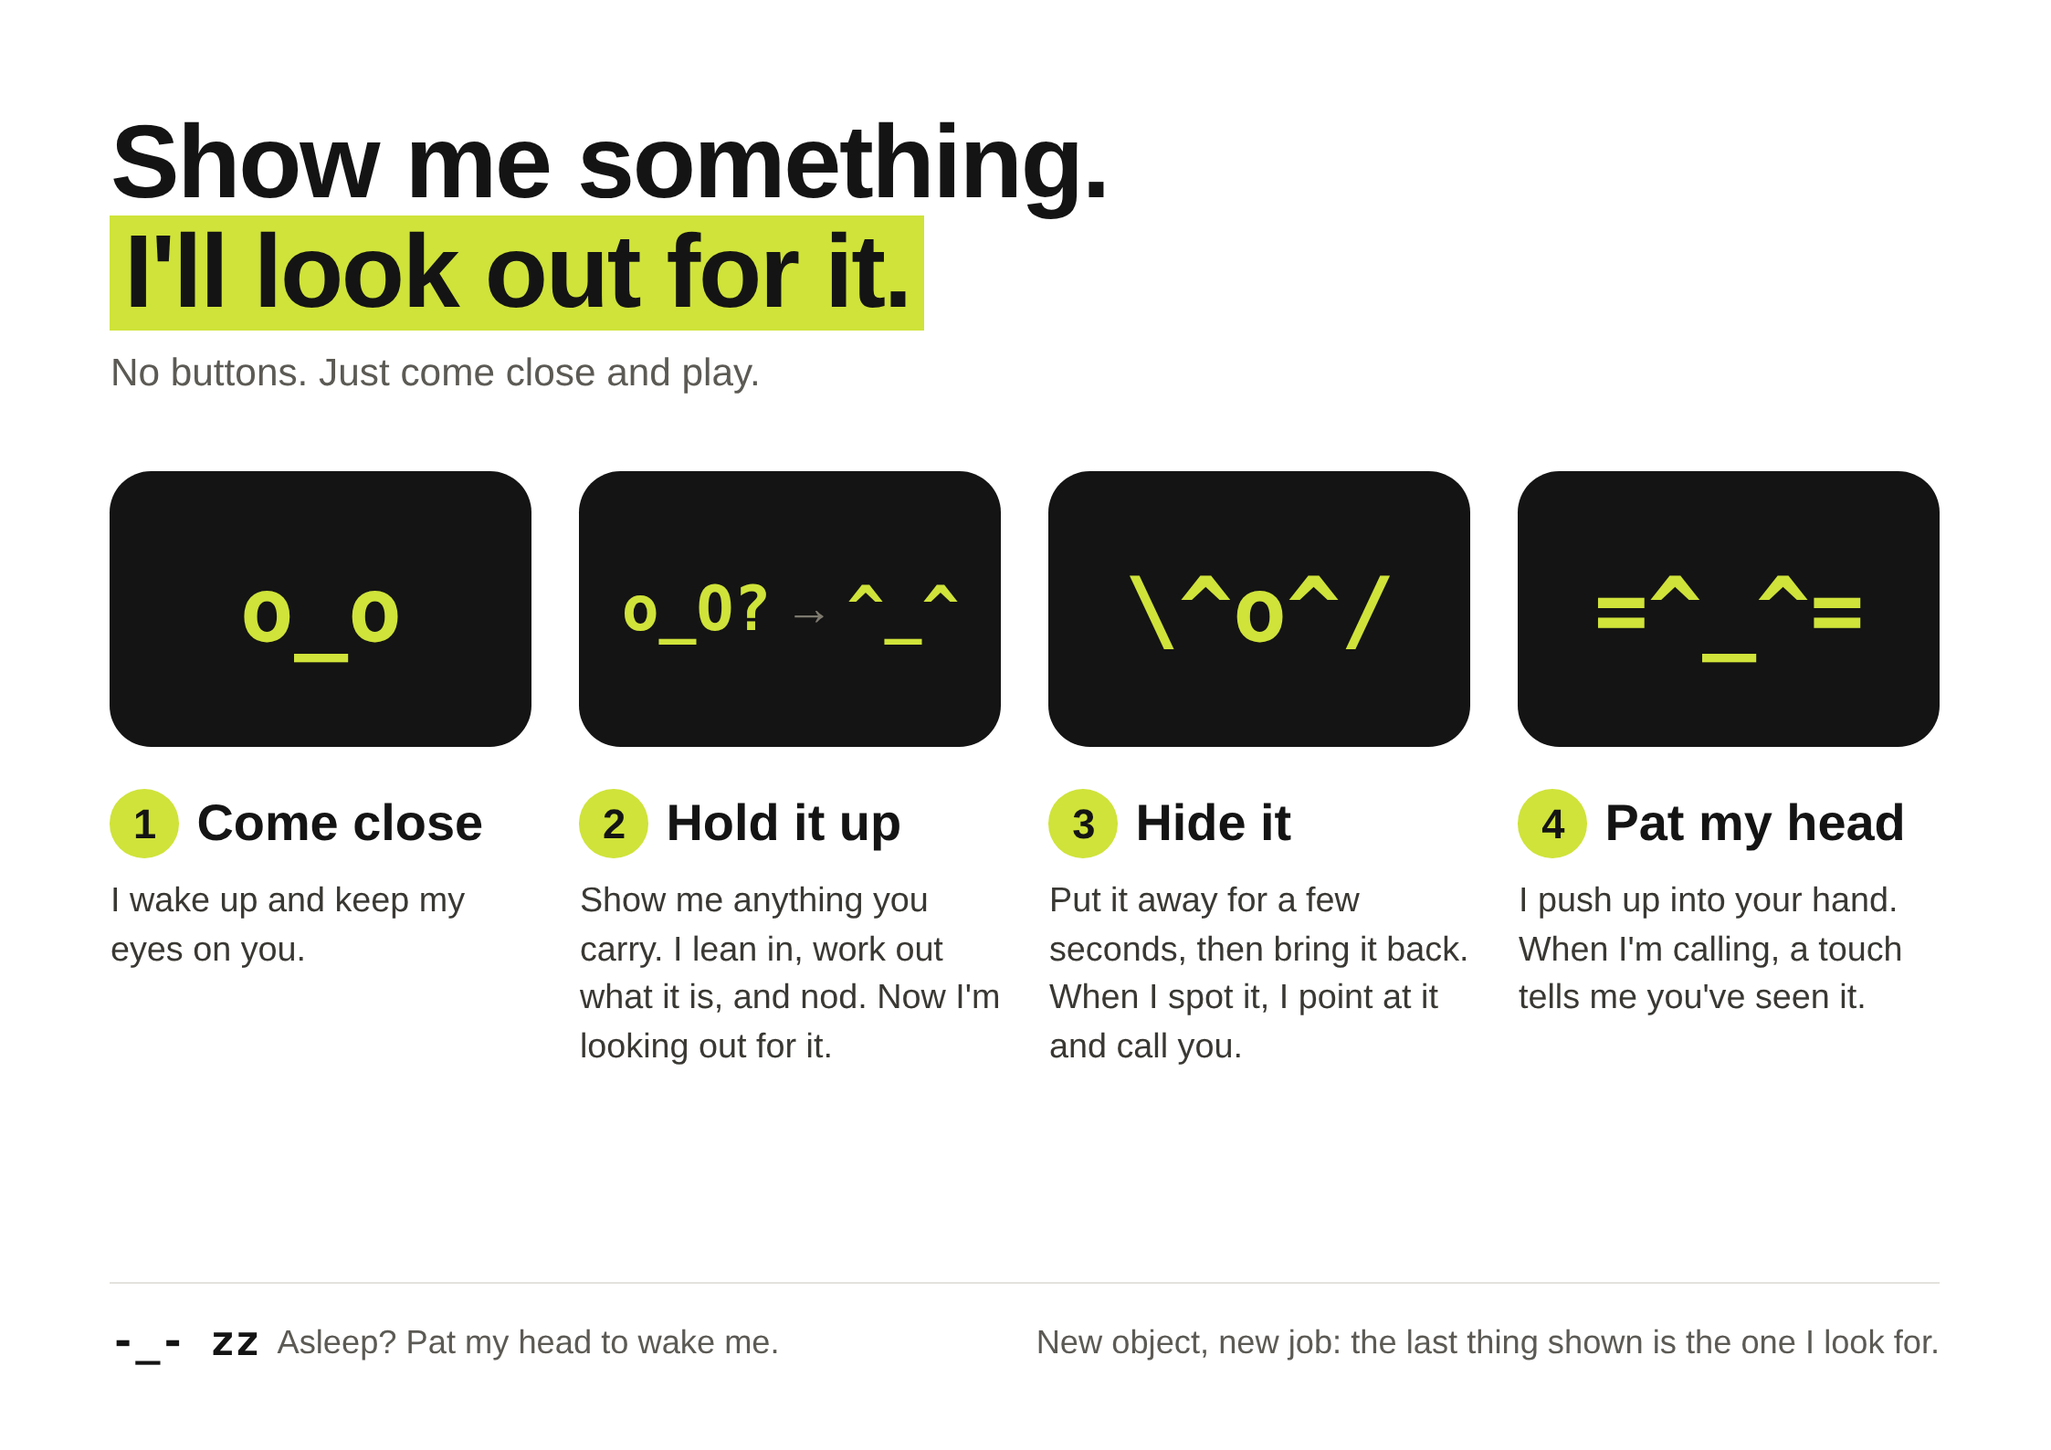
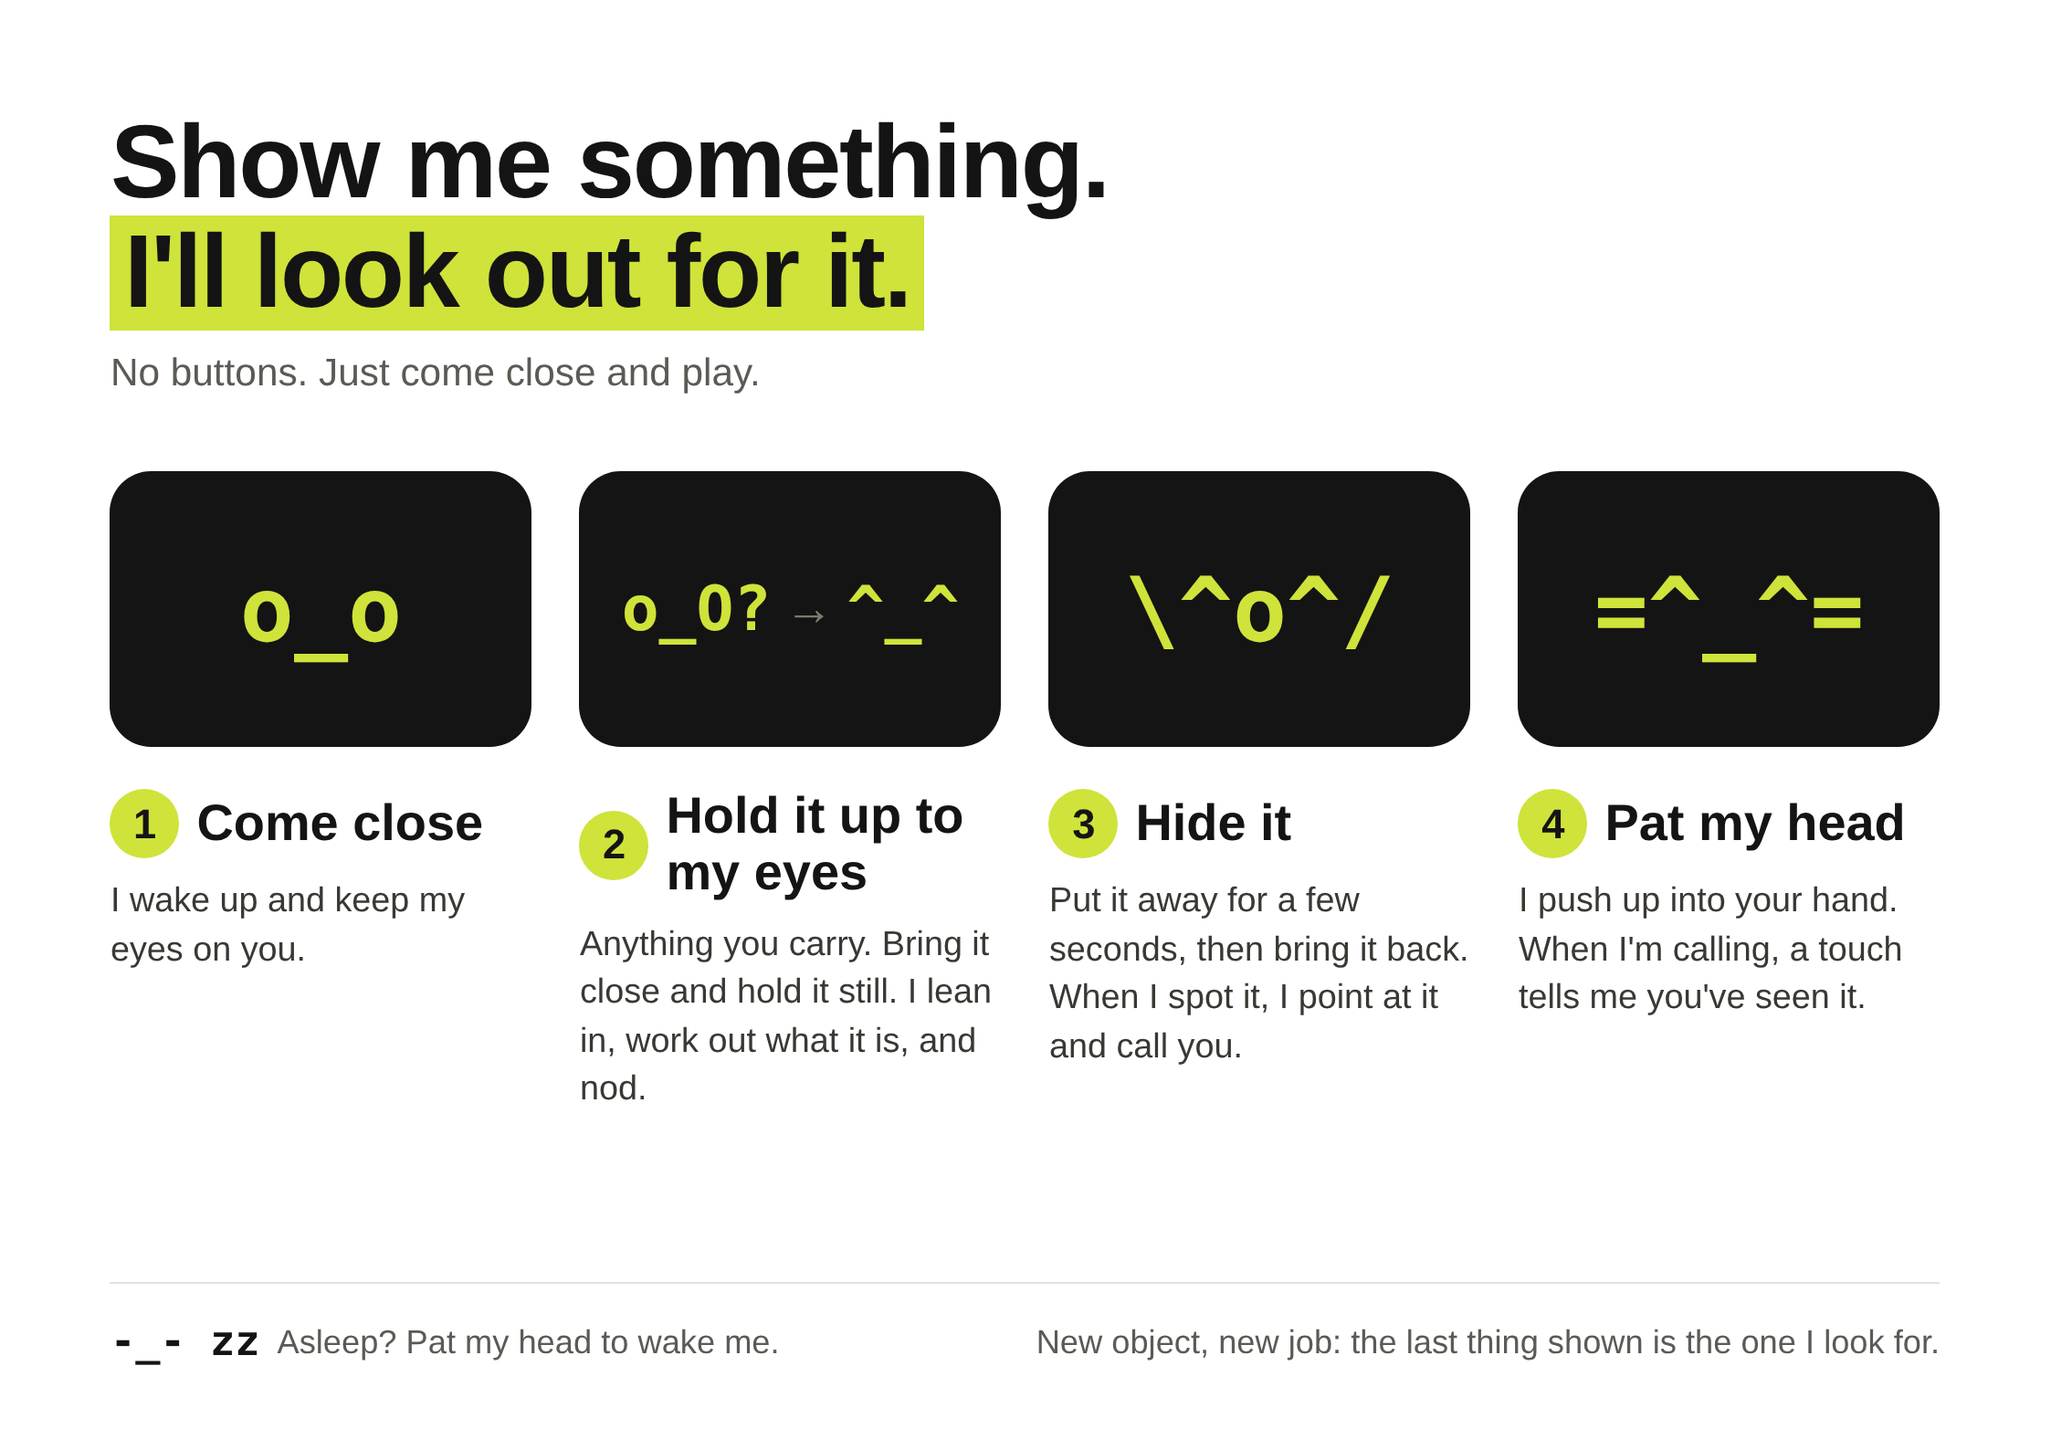
Showing = bringing it up to its eyes (big, central, held 0.8 s), so saying hi with a phone in hand is not teaching; view shows each thing's % of frame; sign step 2 updated

Changed region(s): [[0.2805, 0.5246, 0.4987, 0.7714]]

diff --git a/docs/booth_sign/booth_sign.html b/docs/booth_sign/booth_sign.html
@@ -44,8 +44,8 @@ h1 span { background: #cfe33a; padding: 0 2mm; }
 
   <div class="step">
     <div class="screen"><span class="face small">o_O?</span><span class="arrow">&rarr;</span><span class="face small">^_^</span></div>
-    <div class="head"><span class="num">2</span>Hold it up</div>
-    <div class="body">Show me anything you carry. I lean in, work out what it is, and nod. Now I'm looking out for it.</div>
+    <div class="head"><span class="num">2</span>Hold it up to my eyes</div>
+    <div class="body">Anything you carry. Bring it close and hold it still. I lean in, work out what it is, and nod.</div>
   </div>
 
   <div class="step">

diff --git a/tests/test_sidekick_brain.py b/tests/test_sidekick_brain.py
@@ -61,22 +61,29 @@ class FakePlayer:
         return {"pan": 0.0, "tilt": -8.0, "nod": 0.0}
 
 
-def tgt(pan=0.0, gaze=10.0):
-    return Target(x=0, y=0, pan=pan, nod=gaze + 12.0, gaze=gaze)
+def tgt(pan=0.0, gaze=10.0, x=640.0, y=360.0):
+    return Target(x=x, y=y, pan=pan, nod=gaze + 12.0, gaze=gaze)
 
 
 def face(pan=0.0, near=True):
     return Person(pid=1, head=tgt(pan, 15.0), sw_frac=0.35 if near else 0.1, near=near)
 
 
-def prop(label="banana", pan=0.0, gaze=5.0, held=True, hand_near=None):
-    return Prop(label=label, box=(0, 0, 10, 10), area=0.02, at=tgt(pan, gaze),
+def prop(label="banana", pan=0.0, gaze=5.0, held=True, hand_near=None,
+         area=0.08, x=640.0):
+    return Prop(label=label, box=(0, 0, 10, 10), area=area, at=tgt(pan, gaze, x=x),
                 held=held, hand_near=held if hand_near is None else hand_near)
 
 
 def pc(clock, people=(), props=()):
     return Percept(t=clock.t, pose={"pan": 0.0, "tilt": -12.0, "nod": 22.0},
                    people=list(people), props=list(props))
+
+
+def show(clock, brain, label, **kw):
+    """Bring it up to its eyes and hold it there long enough."""
+    for _ in range(int(B.SHOW_S / 0.25) + 2):
+        step(clock, brain, 0.25, people=[face()], props=[prop(label, **kw)])
 
 
 def setup():
@@ -201,8 +208,7 @@ def test_a_passer_straight_ahead_gets_a_glance_without_a_turn():
 def teach(label="water bottle", name="a blue water bottle"):
     clock, player, brain, events = setup()
     awake(clock, player, brain)
-    step(clock, brain, 0.25, people=[face()], props=[prop(label)])
-    step(clock, brain, 0.25, people=[face()], props=[prop(label)])
+    show(clock, brain, label)
     assert brain.phase == "TEACH" and player.state == "SK_CURIOUS"
     assert events[-1][0] == "identify" and events[-1][1]["guess"] == label
     player.finish()
@@ -279,8 +285,7 @@ def test_a_new_visitor_shows_a_new_thing_and_it_replaces_the_old():
     clock, player, brain, events = teach()
     for _ in range(int(B.TEACH_AGAIN_S / 0.25) + 1):
         step(clock, brain, 0.25, people=[face()])
-    step(clock, brain, 0.25, people=[face()], props=[prop("keys")])
-    step(clock, brain, 0.25, people=[face()], props=[prop("keys")])
+    show(clock, brain, "keys")
     assert brain.phase == "TEACH"
     player.finish()
     brain.on_identified("a set of keys", "keys")
@@ -290,8 +295,7 @@ def test_a_new_visitor_shows_a_new_thing_and_it_replaces_the_old():
 def test_the_model_could_not_tell_and_it_says_so():
     clock, player, brain, events = setup()
     awake(clock, player, brain)
-    step(clock, brain, 0.25, people=[face()], props=[prop("toy")])
-    step(clock, brain, 0.25, people=[face()], props=[prop("toy")])
+    show(clock, brain, "toy")
     player.finish()
     brain.on_identified(None, None)
     assert brain.phase == "LOOK" and brain.target is None
@@ -301,8 +305,7 @@ def test_the_model_could_not_tell_and_it_says_so():
 def test_an_answer_during_the_curious_beat_waits_for_it_to_finish():
     clock, player, brain, events = setup()
     awake(clock, player, brain)
-    step(clock, brain, 0.25, people=[face()], props=[prop("cup")])
-    step(clock, brain, 0.25, people=[face()], props=[prop("cup")])
+    show(clock, brain, "cup")
     brain.on_identified("a red cup", "cup")           # still SK_CURIOUS
     assert player.state == "SK_CURIOUS" and brain.phase == "TEACH"
     player.finish()                                    # -> SK_FOLLOW
@@ -366,8 +369,7 @@ def test_the_detectors_first_word_still_finds_it():
     model: the detector keeps saying 'headphones', and that must still count."""
     clock, player, brain, events = setup()
     awake(clock, player, brain)
-    step(clock, brain, 0.25, people=[face()], props=[prop("headphones")])
-    step(clock, brain, 0.25, people=[face()], props=[prop("headphones")])
+    show(clock, brain, "headphones")
     player.finish()
     brain.on_identified("a black earbud case", "earbud case")
     player.finish()
@@ -471,3 +473,29 @@ def test_leaving_look_stops_the_bounces():
     assert player.lively
     brain._sleep()
     assert not player.lively
+
+
+def test_saying_hi_with_a_phone_in_hand_is_not_showing():
+    """Small in the frame (held at the chest, a step away): it just follows."""
+    clock, player, brain, events = setup()
+    awake(clock, player, brain)
+    for _ in range(12):
+        step(clock, brain, 0.25, people=[face()], props=[prop("cell phone", area=0.02)])
+    assert brain.phase == "LOOK" and "identify" not in [k for k, _ in events]
+
+
+def test_brought_up_but_at_the_edge_of_its_view_is_not_showing():
+    clock, player, brain, events = setup()
+    awake(clock, player, brain)
+    for _ in range(12):
+        step(clock, brain, 0.25, people=[face()], props=[prop("cup", x=1200.0)])
+    assert brain.phase == "LOOK"
+
+
+def test_a_quick_flash_past_its_eyes_is_not_showing():
+    clock, player, brain, events = setup()
+    awake(clock, player, brain)
+    for _ in range(6):
+        step(clock, brain, 0.25, people=[face()], props=[prop("cup")])
+        step(clock, brain, 0.25, people=[face()])
+    assert brain.phase == "LOOK"

diff --git a/session/sidekick_brain.py b/session/sidekick_brain.py
@@ -49,7 +49,15 @@ DOZE_TO_SLEEP_S = 20.0     # dozing this long with nobody near: head down, aslee
 GLANCE_REFRACTORY_S = 12.0  # at most one glance per this long
 GLANCE_MIN_DEG = 8.0       # closer to straight ahead than this: no turn, the
                            # glance is the head lift and the look alone
-HELD_FRAMES = 2            # something held up on this many settled frames in a row
+# SHOWING it something (2026-11-08): "something in a near person's hand" was
+# not a request -- people who only came to say hi, phone or cup in hand, were
+# taken as teaching. Showing is now bringing the thing UP TO ITS EYES: big in
+# the frame (close to the lens), near the middle, held there a moment. A phone
+# held at the chest 0.75 m away is ~2% of the frame; a bottle at 30 cm is >10%.
+SHOW_AREA = 0.045          # of the frame: this big = brought close to its eyes
+SHOW_CENTRE_X = 0.30       # its centre within this of the middle (frac of width)
+SHOW_CENTRE_Y = 0.35       # ... and of height
+SHOW_S = 0.8               # held there this long: "look at this"
 TEACH_MAX_S = 12.0         # the model never answered: give up, back to the face
 TEACH_AGAIN_S = 6.0        # a failed or finished teach: no new one for this long
 TARGET_AWAY_S = 3.0        # the target must be out of sight this long before
@@ -126,7 +134,7 @@ class Brain:
         self._near_since: Optional[float] = None
         self._last_near = -1e9
         self._last_glance = -1e9
-        self._held_run = 0
+        self._show_since = None
         self._purr_at = -1e9
         self._glance_pan = None          # where the last glance went
         self._track_pan = None           # the person being followed
@@ -401,20 +409,31 @@ class Brain:
         if near:
             self._last_near = t
         self._closeness(near, pc)
-        held = pc.held if ("watch" in self.on and near) else None
-        if (held and t - self._teach_done > TEACH_AGAIN_S
-                and not (self.target and any(same_thing(held.label, w)
+        shown = (self._shown(pc) if ("watch" in self.on
+                                     and t - self._last_near < 1.5) else None)
+        if (shown and t - self._teach_done > TEACH_AGAIN_S
+                and not (self.target and any(same_thing(shown.label, w)
                                              for w in self.target["words"]))):
-            self._held_run += 1
-            if self._held_run >= HELD_FRAMES and self.p.state == "SK_LOOK":
-                self._held_run = 0
-                self._teach = dict(since=t, box=held.box, guess=held.label)
-                self._look_at(held.at, tilt=None)
+            if self._show_since is None:
+                self._show_since = t
+            if t - self._show_since >= SHOW_S and self.p.state == "SK_LOOK":
+                self._show_since = None
+                self._teach = dict(since=t, box=shown.box, guess=shown.label)
+                self._look_at(shown.at, tilt=None)
                 self.p.request("SK_CURIOUS")         # -> SK_FOLLOW while it is named
                 self._go("TEACH", say="Ooh, what's that?")
-                self.emit("identify", box=held.box, guess=held.label, t=t)
+                self.emit("identify", box=shown.box, guess=shown.label, t=t)
         else:
-            self._held_run = 0
+            self._show_since = None
+
+    @staticmethod
+    def _shown(pc):
+        """The thing being brought up to its eyes, if any (see SHOW_AREA)."""
+        w, h = pc.wh
+        c = [q for q in pc.props if q.area >= SHOW_AREA
+             and abs(q.at.x / w - 0.5) <= SHOW_CENTRE_X
+             and abs(q.at.y / h - 0.5) <= SHOW_CENTRE_Y]
+        return max(c, key=lambda q: q.area) if c else None
 
     # ---- very close: one more step of eagerness -------------------------
     def _closeness(self, near, pc):
@@ -430,7 +449,7 @@ class Brain:
         if close != self._close:
             self.emit("close", name=(f"very close ({near.sw_frac:.0%})"
                                      if close else "calm again"))
-        self._set_close(close, quiet=pc.held is not None)
+        self._set_close(close, quiet=pc.held is not None or self._shown(pc) is not None)
 
     def _set_close(self, on, quiet=False):
         self._close = on

diff --git a/sidekick_loop.py b/sidekick_loop.py
@@ -210,7 +210,7 @@ def draw_view(frame, pc, people, brain, player, stage, saying=""):
         cv2.rectangle(im, (x0, y0), (x1, y1), col, 3)
         cv2.putText(im, f"{q.label} {'HELD' if q.held else ''}"
                         f"{' hand' if q.hand_near and not q.held else ''} "
-                        f"gaze {q.at.gaze:+.0f}", (x0, max(25, y0 - 8)),
+                        f"{q.area:.1%}", (x0, max(25, y0 - 8)),
                     cv2.FONT_HERSHEY_SIMPLEX, 0.7, col, 2)
     # Header: only what state it is in and its face (stage, clip and caption
     # are in the terminal).

diff --git a/tests/test_sidekick_loop_sim.py b/tests/test_sidekick_loop_sim.py
@@ -115,7 +115,7 @@ def test_a_visitor_shows_a_bottle_and_it_calls_when_the_bottle_turns_up(
             x, y = to_pixel(bottle[0], bottle[1], sim["player"].pose_deg())
             if not (0 <= x <= W and 0 <= y <= H):
                 return []                           # not where it is looking
-            return [Detection("water bottle", (x - 70, y - 90, x + 70, y + 90))]
+            return [Detection("water bottle", (x - 130, y - 170, x + 130, y + 170))]
 
     class Poses:
         def estimate(self, frame):

diff --git a/docs/SHOWDAY_1108.md b/docs/SHOWDAY_1108.md
@@ -18,7 +18,7 @@ up, hide it, pat my head.
 | walks past (just after a visit) | dozing, head up; glances at them (also straight ahead), goes back | `-.-` |
 | comes close (~1.5 m) | wakes, looks at their face, follows it | `o_o` |
 | comes very close (~0.75 m) | eager: leans in and back in quick bounces, eyes stay on them, light brighter (paused while something is held up) | `*o_o*` |
-| holds something up | pulls back, holds, leans in, "hm?" (rising sound), follows it while the model names it | `o_O?` / `O_O` |
+| holds something up to its eyes (~30 cm) | pulls back, holds, leans in, "hm?" (rising sound), follows it while the model names it | `o_O?` / `O_O` |
 | -- named | nods with the "got it" sound; "OK! I'll look out for a blue water bottle." appears under its face, on the tablet and in the view (not spoken; `--speak` turns a voice on) | `^_^` |
 | keeps holding it / puts it away | nothing: being shown is not finding | |
 | later, that kind of thing is in its view again | points at it with the call sound (no speech); tablet: "spotted it!" with the picture | `\^o^/` |
@@ -85,8 +85,9 @@ Read the terminal: `[sense]` says what it sees (nobody / passer / NEAR),
 **It never wakes.** Someone close (about 1.5 m) wakes it from dozing; asleep
 (head down) only a hand at the sensor or a touch does.
 
-**It never gets curious.** The thing must be held up, close and near the middle
-of its view, by someone it sees as NEAR. Very unusual objects may not be among
+**It never gets curious.** The thing must be brought up to its eyes: at least
+SHOW_AREA of the frame (the --view label shows the %), near the middle, for
+SHOW_S. Saying hi with a phone in hand is deliberately NOT showing. Very unusual objects may not be among
 the detector's words (`PROPS` in `perception/sidekick_sense.py`).
 
 **"I couldn't tell what that was."** The model said nothing was clearly being
@@ -109,7 +110,8 @@ All in `session/sidekick_brain.py` unless said otherwise.
 | LOST_S | 6 s | nobody close this long: dozes |
 | DOZE_TO_SLEEP_S | 20 s | dozing this long: falls asleep, head down |
 | GLANCE_REFRACTORY_S | 12 s | at most one glance per this long |
-| HELD_FRAMES | 2 | held up this many frames: curious |
+| SHOW_AREA | 4.5% | a thing this big in the frame (brought up to its eyes, near the middle)... |
+| SHOW_S | 0.8 s | ... held there this long: curious. The --view label shows each thing's %. |
 | TEACH_MAX_S | 12 s | the model gets this long to name it |
 | TARGET_AWAY_S | 3 s | out of sight this long before seeing it again counts |
 | FOUND_FRAMES | 2 | seen this many frames: found |

diff --git a/docs/RUNBOOK_1108.md b/docs/RUNBOOK_1108.md
@@ -46,7 +46,7 @@ git pull                       # 如果在另一台电脑上改过
 | 摸头 | 醒来，往手里蹭 | `[brain] phase LOOK` |
 | 走到 ~1.5 m 内 | 抬头看你、跟着你 | `[sense] NEAR (size 30%…)` |
 | 再走到 ~0.75 m 内 | 一下一下往前探，灯变亮，`*o_o*` | `[brain] close very close (57%)` |
-| 举起水瓶，放在画面中间 | 后缩，"hm?"，前探，然后点头 + 同意音效；屏幕显示 "OK! I'll look out for …" | `[identify] '…' -> watching for '…'` |
+| 把水瓶**举到它眼前**（~30 cm），停 1 秒 | 后缩，"hm?"，前探，然后点头 + 同意音效；屏幕显示 "OK! I'll look out for …" | `[identify] '…' -> watching for '…'` |
 | 收起来 **3 秒以上**，再拿出来 | 指向它，叫唤 | `[brain] found …` |
 | 叫唤时摸头 | 点头，回来看你 | `[brain] phase LOOK` |
 | 走开 | ~6 s 后抬头打盹；有目标时不会低头睡 | `[brain] phase DOZE` |
@@ -65,9 +65,10 @@ git pull                       # 如果在另一台电脑上改过
 | 现象 | 先做这个 |
 |---|---|
 | 不醒 | 看终端 `[sense]`：显示 nobody 就是没认出人（检查光线、摄像头编号）。睡着时只有摸头或手靠近传感器才能叫醒它 |
-| 不好奇 | 东西要**举在画面中间、离它近、拿稳**；举东西的人要被判成 NEAR |
+| 不好奇 | 东西要**举到它眼前、在画面中间、停 1 秒**；live 窗口里东西旁边的百分比要 ≥ 4.5%（`SHOW_AREA`）。小东西要拿得更近 |
 | 显示 "I couldn't tell what that was" | 网络问题：跑一下 `net_check`；不行就重启并加 `--offline`（用检测器自己的词，不调用 Gemini） |
 | 东西拿回来它不叫 | 要先**完全藏起来 3 秒**；看 `[identify] … watching for '…'`，词太偏的东西（检测器认不出）换一样常见的道具 |
+| 打招呼也被当成在给它看 | 看那件东西的百分比，把 `SHOW_AREA` 调高一点 |
 | "很近"太早或太晚触发 | 记下终端里显示的百分比，之后调 `CLOSE_ENTER_FRAC`（`session/sidekick_brain.py`） |
 | 头不动、卡住 | Ctrl-C，跑 `check_bus.py`，看电压，再重新开始 |
 | 舵机抖、电压 < 5 V | 换电源或给电池充电 |
